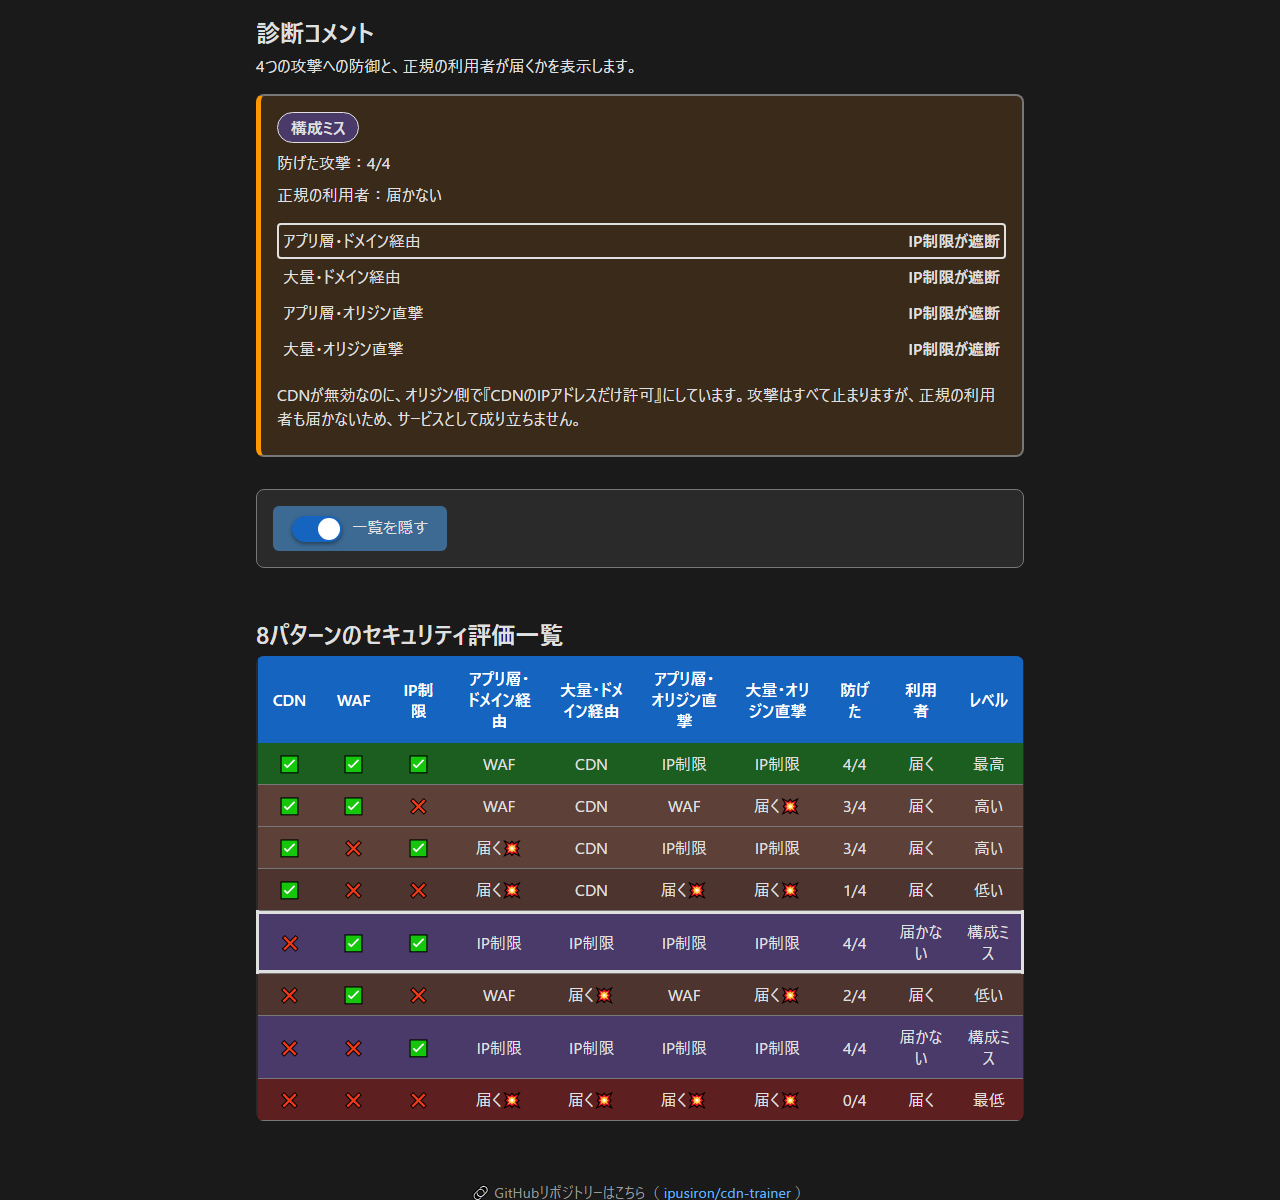
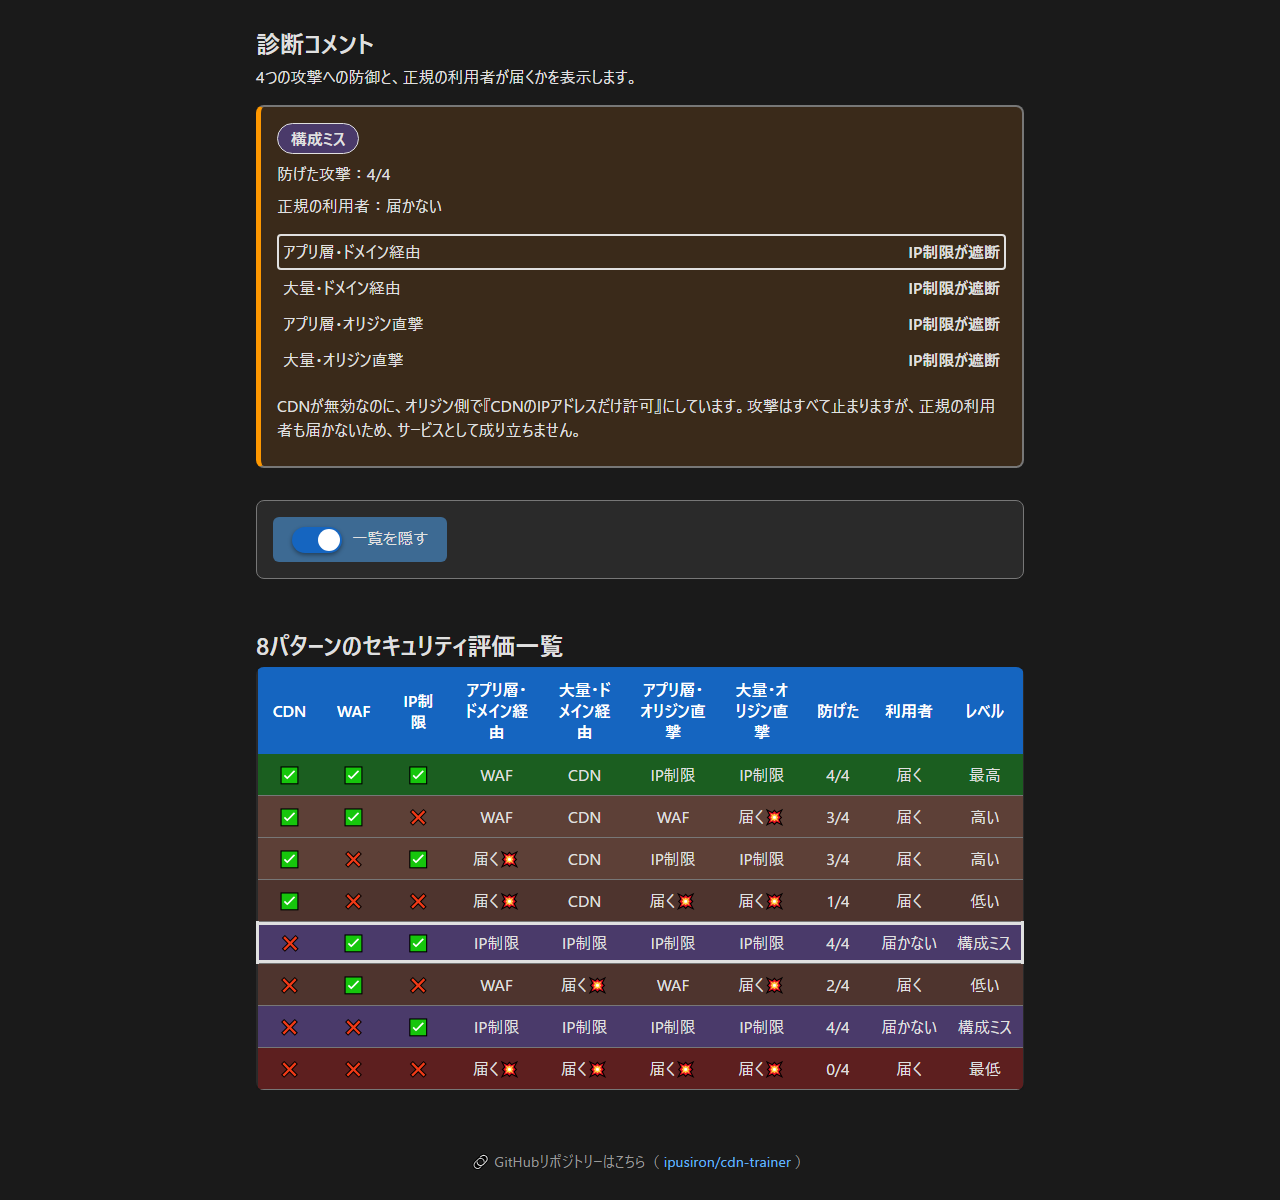
図の絵文字と停止位置など表示の5点を修正

Changed region(s): [[0.1875, 0.5242, 0.8125, 1.0], [0.1875, 0.0, 0.8125, 0.4933]]

diff --git a/test/script.test.js b/test/script.test.js
@@ -2,6 +2,7 @@ const test = require('node:test');
 const assert = require('node:assert/strict');
 const fs = require('node:fs');
 const path = require('node:path');
+const vm = require('node:vm');
 const source = fs.readFileSync(path.join(__dirname, '../script.js'), 'utf8');
 
 test('UI uses DOM construction and cancelable animation, without legacy rendering', () => {
@@ -28,4 +29,42 @@ test('UI evaluation is delegated to the model and user controls register listene
   assert.match(source, /addEventListener\('change', renderCurrent\)/);
   assert.match(source, /event\.key === 'Escape'/);
   assert.match(source, /event\.key === 'Tab'/);
+});
+
+test('endpoint reveal scrolls only the diagram box and includes the final label', () => {
+  const declaration = source.match(/function revealEndpoint\(svg, result\) \{[\s\S]*?\n\}/);
+  assert.ok(declaration);
+  const reveal = vm.runInNewContext(`${declaration[0]}; revealEndpoint;`);
+  const box = { scrollWidth: 600, clientWidth: 300, clientLeft: 2, scrollLeft: 0,
+    getBoundingClientRect: () => ({ left: 10 }) };
+  const endpoint = { getBoundingClientRect: () => ({ left: 430 - box.scrollLeft, right: 470 - box.scrollLeft }) };
+  const label = { getBoundingClientRect: () => ({ left: 400 - box.scrollLeft, right: 510 - box.scrollLeft }) };
+  const svg = { parentElement: box, querySelector: (selector) => selector.startsWith('[data-node=') ? endpoint : label };
+  reveal(svg, { stoppedAt: 'waf' });
+  assert.equal(box.scrollLeft, 210);
+  reveal(svg, { stoppedAt: 'waf' });
+  assert.equal(box.scrollLeft, 210, 'already-visible endpoint does not move');
+  box.scrollLeft = 500;
+  reveal(svg, { stoppedAt: null });
+  assert.equal(box.scrollLeft, 376, 'move left to include the label');
+  box.scrollWidth = box.clientWidth;
+  reveal(svg, { stoppedAt: null });
+  assert.equal(box.scrollLeft, 376, 'non-overflowing box is unchanged');
+  assert.doesNotMatch(declaration[0], /\.scrollIntoView\(|window\.scroll|document\./);
+  assert.equal((source.match(/revealEndpoint\(svg, result\);/g) || []).length, 2);
+});
+
+test('visual styles preserve node names, emoji fonts and whole result words', () => {
+  const css = fs.readFileSync(path.join(__dirname, '../style.css'), 'utf8');
+  assert.match(css, /\.node-name\s*\{[^}]*paint-order:\s*stroke;[^}]*stroke:\s*var\(--panel-bg\);[^}]*stroke-width:\s*6px;/);
+  assert.match(css, /font-family:\s*"Segoe UI Emoji", "Apple Color Emoji", "Noto Color Emoji"/);
+  assert.match(css, /\.pattern-table td:nth-last-child\(-n \+ 3\)\s*\{\s*white-space:\s*nowrap;/);
+});
+
+test('tooltip focus is keyboard-visible and hover is restricted to hover-capable input', () => {
+  const css = fs.readFileSync(path.join(__dirname, '../style.css'), 'utf8');
+  assert.doesNotMatch(css, /\.tooltip-container:focus-within|\.tooltip-container:active/);
+  assert.match(css, /\.tooltip-container:focus-visible \.tooltip/);
+  assert.match(css, /\.tooltip-container:has\(input:focus-visible\) \.tooltip/);
+  assert.match(css, /@media \(hover: hover\)\s*\{\s*\.tooltip-container:hover \.tooltip/);
 });

diff --git a/script.js b/script.js
@@ -58,8 +58,8 @@ function drawDiagram(config, scenario, result) {
     const enabled = key === 'client' || key === 'origin' || config[key === 'ip' ? 'iplimit' : key];
     const node = svgElement('g', { class: `node${enabled ? '' : ' is-disabled'}`, 'data-node': key });
     node.append(svgElement('text', { x, y: y - 40, class: 'node-icon', 'text-anchor': 'middle' }, t(`icon.${key}`)));
-    node.append(svgElement('text', { x, y: y + 35, 'text-anchor': 'middle' }, t(`node.${key}`)));
-    if (!enabled) node.append(svgElement('text', { x, y: y + 60, 'text-anchor': 'middle' }, t('node.disabled')));
+    node.append(svgElement('text', { x, y: y + 35, class: 'node-name', 'text-anchor': 'middle' }, t(`node.${key}`)));
+    if (!enabled) node.append(svgElement('text', { x, y: y + 60, class: 'node-name', 'text-anchor': 'middle' }, t('node.disabled')));
     svg.append(node);
   }
   const fire = svgElement('text', {
@@ -68,7 +68,23 @@ function drawDiagram(config, scenario, result) {
   }, t('icon.attack'));
   svg.append(fire);
   document.getElementById('diagram').replaceChildren(svg);
+  revealEndpoint(svg, result);
   playAttack(svg, fire, points, result, scenario);
+}
+
+function revealEndpoint(svg, result) {
+  const box = svg.parentElement;
+  if (box.scrollWidth <= box.clientWidth) return;
+  const endpoint = svg.querySelector(`[data-node="${result.stoppedAt || 'origin'}"]`);
+  const label = svg.querySelector('.label-blocked, .label-reached');
+  const bounds = [endpoint, label].filter(Boolean).map((node) => node.getBoundingClientRect());
+  const left = Math.min(...bounds.map((rect) => rect.left));
+  const right = Math.max(...bounds.map((rect) => rect.right));
+  const visibleLeft = box.getBoundingClientRect().left + box.clientLeft;
+  const visibleRight = visibleLeft + box.clientWidth;
+  // Move this box only: scrollIntoView would also move the page.
+  if (left < visibleLeft + 12) box.scrollLeft += left - visibleLeft - 12;
+  else if (right > visibleRight - 12) box.scrollLeft += right - visibleRight + 12;
 }
 
 function playAttack(svg, fire, points, result, scenario) {
@@ -89,6 +105,7 @@ function playAttack(svg, fire, points, result, scenario) {
       x: end[0], y: 208, class: result.stoppedAt ? 'label-blocked' : 'label-reached',
       'text-anchor': end[0] < 100 ? 'start' : end[0] > 580 ? 'end' : 'middle'
     }, resultLabel(result, scenario)));
+    revealEndpoint(svg, result);
   };
   if (reducedMotion.matches) {
     finish();

diff --git a/style.css b/style.css
@@ -194,8 +194,16 @@ button {
   fill: var(--disabled);
 }
 
+.node-name {
+  paint-order: stroke;
+  stroke: var(--panel-bg);
+  stroke-width: 6px;
+  stroke-linejoin: round;
+}
+
 .node-icon,
 .attack-icon {
+  font-family: "Segoe UI Emoji", "Apple Color Emoji", "Noto Color Emoji", system-ui, sans-serif;
   font-size: 26px;
 }
 
@@ -374,6 +382,11 @@ body.dark-mode .label-reached {
   padding: 10px;
   text-align: center;
   border-bottom: 1px solid var(--border);
+}
+
+.pattern-table th:nth-last-child(-n + 3),
+.pattern-table td:nth-last-child(-n + 3) {
+  white-space: nowrap;
 }
 
 .level-best {
@@ -761,10 +774,17 @@ body.dark-mode .modal-body dd {
   border-color: var(--tooltip-bg) transparent transparent transparent;
 }
 
-.tooltip-container:hover .tooltip,
-.tooltip-container:focus-within .tooltip {
+.tooltip-container:focus-visible .tooltip,
+.tooltip-container:has(input:focus-visible) .tooltip {
   visibility: visible;
   opacity: 1;
+}
+
+@media (hover: hover) {
+  .tooltip-container:hover .tooltip {
+    visibility: visible;
+    opacity: 1;
+  }
 }
 
 /* チェックボックスのラベルのツールチップ調整 */
@@ -817,12 +837,6 @@ button.tooltip-container .tooltip {
     left: 20px;
     margin-top: 0;
     border-color: transparent transparent var(--tooltip-bg) transparent;
-  }
-  
-  .tooltip-container:active .tooltip {
-    visibility: visible;
-    opacity: 1;
-    display: block;
   }
 }
 

diff --git a/test/messages.test.js b/test/messages.test.js
@@ -31,6 +31,19 @@ test('unknown keys throw; score and multi-parameter substitutions work', () => {
   assert.equal(messages.t('ui.diagramLabel', { scenario: 'A', result: 'B' }), 'A：B');
 });
 
+test('shield, desktop and cloud icons explicitly select emoji presentation', () => {
+  const needsEmoji = new Set([0x1f6e1, 0x1f5a5, 0x2601]);
+  for (const key of messages.keys.filter((name) => name.startsWith('icon.'))) {
+    const points = Array.from(messages.t(key), (character) => character.codePointAt(0));
+    points.forEach((point, index) => {
+      if (needsEmoji.has(point)) assert.equal(points[index + 1], 0xfe0f, key);
+    });
+  }
+  for (const [key, point] of [['blocked', 0x1f6e1], ['origin', 0x1f5a5], ['cdn', 0x2601]]) {
+    assert.equal(messages.t(`icon.${key}`), String.fromCodePoint(point, 0xfe0f));
+  }
+});
+
 test('model and UI have no Japanese literals outside comments', () => {
   const ranges = [[0x3040, 0x30ff], [0x4e00, 0x9fff], [0xff01, 0xff60]];
   const pattern = new RegExp(`[${ranges.map(([start, end]) => `${String.fromCodePoint(start)}-${String.fromCodePoint(end)}`).join('')}]`, 'u');

diff --git a/cdn-messages.js b/cdn-messages.js
@@ -59,9 +59,9 @@ const CdnMessages = (() => {
       'icon.cdn': '☁',
       'icon.ip': '🚧',
       'icon.waf': '🧱',
-      'icon.origin': '🖥',
+      'icon.origin': '🖥',
       'icon.attack': '🔥',
-      'icon.blocked': '🛡',
+      'icon.blocked': '🛡',
       'icon.reached': '💥',
       'ui.replay': '攻撃を再生',
       'ui.replayTip': '同じ構成とシナリオで、攻撃のアニメーションをもう一度流します。',
